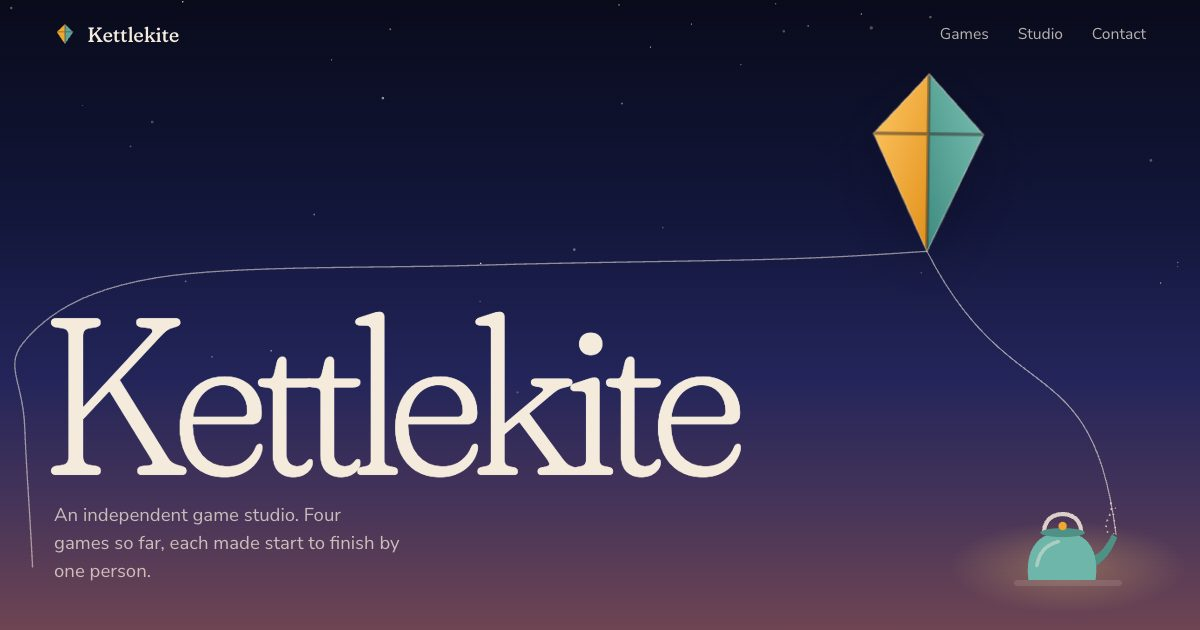
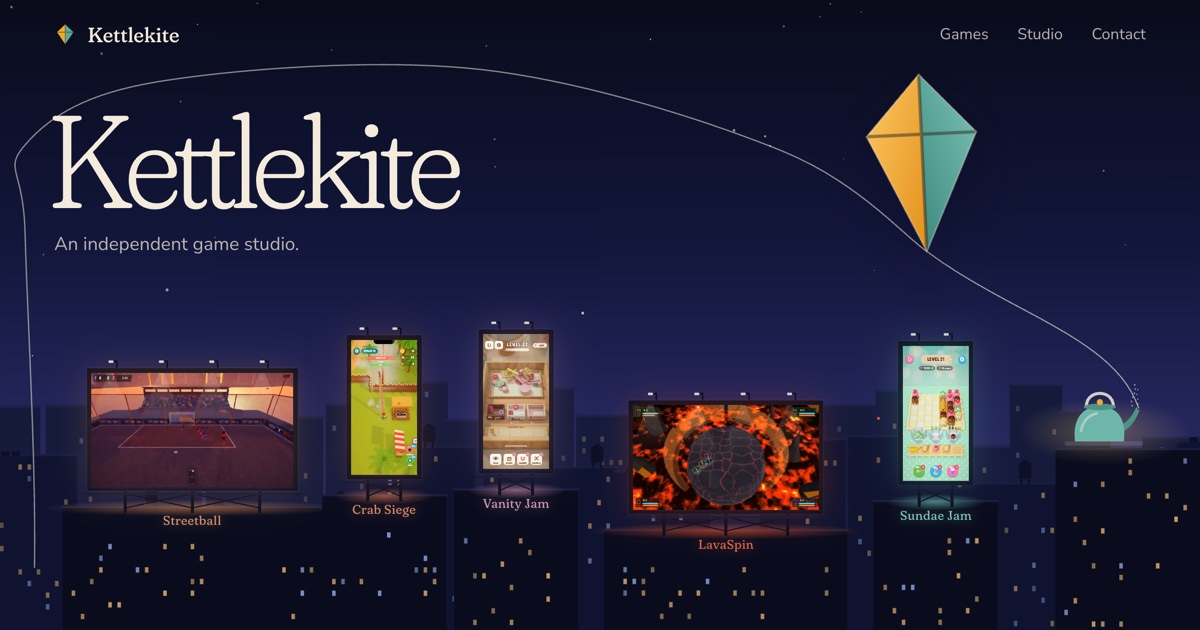
Home city: every billboard big enough to see its game and named on its building; two rows of rooftops on a phone
- The phone games' boards were 72 px wide on a 1440 screen and 39 on a phone, five boards
  shoulder to shoulder with Streetball cut at the edge and the tail running over it. Wide
  screens keep one row with the phone boards a third larger; an upright screen stands the
  three phone games on a back row and the two films on a nearer one (boards 74 and 164 px
  wide at 390), inside the gutters, none overlapping. The city is 58 % of an upright sky.
- Board sizes follow the city's height as well as its width, so a short or very wide
  window never lifts them into the name.
- Each game's name is lit on the building under its board, in the game's colour, on a band
  of wall kept dark for it; the screens spill a little of their light into the night, and a
  board brightens under the pointer (it already linked to its chapter).
- Stars twinkle a little less. Under 350 px the bar keeps the kite mark and the links, and
  the line wraps beside the kite instead of under it. The studio link gets a full target.
- og.jpg is the city with its five boards, not the old four-game sky.

diff --git a/assets/city.js b/assets/city.js
@@ -22,7 +22,6 @@
     let seed = 23;
     const r = () => ((seed = (seed * 1664525 + 1013904223) >>> 0) / 4294967296);
     const u = Math.max(0.55, Math.min(1.25, W / 1440));
-    const narrow = W < 700;
     const defs = el("defs", {}, back);
     const fdefs = el("defs", {}, front);
     let gid = 0;
@@ -60,7 +59,7 @@
         el("circle", { cx: ax + 0.65 * u, cy: top - ah, r: 1.7 * u, fill: "#ff5a4a", class: "beacon", style: `animation-delay:${(-r() * 3).toFixed(2)}s` }, g);
       }
     }
-    function block(x, w, top, layer, bare = false) {
+    function block(x, w, top, layer, bare = false, clear = 0) {
       const g = el("g", {}, back);
       el("rect", { x, y: top, width: w, height: H - top + 2, fill: tone[layer] }, g);
       el("rect", { x: x - 1.5 * u, y: top - 2.5 * u, width: w + 3 * u, height: 2.5 * u, fill: layer === "far" ? "#1b2148" : "#181d3e" }, g);
@@ -69,7 +68,7 @@
       const op = { far: 0.32, mid: 0.55, near: 0.85 }[layer];
       const cols = Math.max(1, Math.floor((w - 8 * u) / cw));
       const x0 = x + (w - cols * cw) / 2 + (cw - ww) / 2;
-      for (let y = top + 10 * u; y < H - 6 * u; y += rh) {
+      for (let y = top + 10 * u + clear; y < H - 6 * u; y += rh) {
         for (let c = 0; c < cols; c++) {
           const v = r(), warm = r() > 0.25, a = 0.6 + r() * 0.4;
           if (v > lit) continue;
@@ -91,22 +90,45 @@
     el("rect", { x: 0, y: H * 0.35, width: W, height: H * 0.65, fill: linear([[0, "#2a2550", 0], [1, "#2a2550", 0.35]], defs) }, back);
     skyline("mid", 0.32, 0.72, 50, 130);
 
-    // the billboards, each on its own roof: a cabinet on steel legs and braces, a catwalk with a
-    // rail, and lamps on arms that throw soft light down the face
-    const slots = narrow
-      ? { streetball: 0.13, vanity: 0.31, lavaspin: 0.485, sundae: 0.66, crab: 0.765 }
-      : { streetball: 0.17, crab: 0.325, vanity: 0.425, lavaspin: 0.595, sundae: 0.77 };
-    // five boards and the kettle share a phone's width: a little smaller there
-    const wideW = narrow ? W * 0.26 : W * 0.2;
-    const tallW = narrow ? W * 0.1 : W * 0.05;
-    function billboard(game, roofY, w, h) {
-      const cx = W * slots[game];
-      const host = w + (narrow ? 26 : 70) * u;
-      const legs = (narrow ? 14 : 26) * u;
+    // The billboards, each on its own roof: a cabinet on steel legs and braces, a catwalk with a
+    // rail, lamps on arms that throw soft light down the face, and the game's name lit on the
+    // building below. Wide screens stand them in one row; a phone or a tablet held upright stands
+    // the three phone games on a back row and the two films on a nearer one, so each is big
+    // enough to see what is playing. Their size follows the city's height as well as its width,
+    // so a short window never pushes them up into the name.
+    const tiers = W < 1.7 * H;
+    const legs = (tiers ? 14 : 26) * u;
+    const sign = Math.max(12, Math.min(16, W * 0.0105));
+    let plan;
+    if (tiers) {
+      const tallH = Math.min(W * 0.39, H * 0.31), tallW = tallH / 2.05;
+      const wideW = Math.min(W * 0.42, H * 0.355), wideH = (wideW * 9) / 16;
+      const back = H * 0.07 + tallH + legs;
+      const near = back + sign * 2.4 + 24 * u + wideH + legs;
+      plan = [
+        ["vanity", 0.17, back, tallW, tallH],
+        ["sundae", 0.43, back + 5 * u, tallW, tallH],
+        ["crab", 0.69, back - 3 * u, tallW, tallH],
+        ["streetball", 0.27, near, wideW, wideH],
+        ["lavaspin", 0.73, near + 9 * u, wideW * 0.96, wideH * 0.96],
+      ];
+    } else {
+      const k = Math.min(W, H * 3.48) / 1440, wideW = 288 * k, tallW = 94 * k;
+      plan = [
+        ["streetball", 0.16, H * 0.58, wideW, (wideW * 9) / 16],
+        ["crab", 0.32, H * 0.54, tallW, tallW * 2.05],
+        ["vanity", 0.43, H * 0.52, tallW, tallW * 2.05],
+        ["lavaspin", 0.605, H * 0.66, wideW * 0.92, (wideW * 0.92 * 9) / 16],
+        ["sundae", 0.78, H * 0.56, tallW, tallW * 2.05],
+      ];
+    }
+    function billboard(game, at, roofY, w, h) {
+      const cx = W * at;
+      const host = w + (tiers ? 26 : 70) * u;
       const sy = roofY - legs - h;
-      block(cx - host / 2, host, roofY, "near", true);
+      block(cx - host / 2, host, roofY, "near", true, sign * 2.2);
       el("ellipse", { cx, cy: roofY, rx: w * 0.75, ry: 10 * u, fill: radial(hue[game], 0.5) }, back);
-      el("rect", { x: cx - w / 2 - 6 * u, y: sy - 6 * u, width: w + 12 * u, height: h + 12 * u, rx: 2 * u, fill: "#0b0d1f" }, back);
+      el("rect", { x: cx - w / 2 - 6 * u, y: sy - 6 * u, width: w + 12 * u, height: h + 12 * u, rx: 2 * u, fill: "#0b0d1f", stroke: "#f4ebdd", "stroke-opacity": 0.07 }, back);
       const n = w > 120 * u ? 3 : 2;
       const lx = (i) => cx - w / 2 + (w * (i + 0.5)) / n;
       for (let i = 0; i < n; i++) el("rect", { x: lx(i) - 1.8 * u, y: sy + h + 6 * u, width: 3.6 * u, height: legs, fill: "#0b0d1f" }, back);
@@ -116,11 +138,15 @@
       }
       el("rect", { x: cx - w / 2 - 10 * u, y: sy + h + 8 * u, width: w + 20 * u, height: 2.4 * u, fill: "#121634" }, back);
       el("path", { d: `M${cx - w / 2 - 10 * u} ${sy + h + u} H${cx + w / 2 + 10 * u}`, stroke: "#121634", "stroke-width": u }, back);
-      Object.assign(boards[game].style, { left: `${cx - w / 2}px`, top: `${sy}px`, width: `${w}px`, height: `${h}px` });
-      const canvas = boards[game].querySelector("canvas");
+      const board = boards[game];
+      Object.assign(board.style, { left: `${cx - w / 2}px`, top: `${sy}px`, width: `${w}px`, height: `${h}px` });
+      board.style.setProperty("--hue", hue[game]);
+      board.style.setProperty("--sign", `${sign.toFixed(1)}px`);
+      board.style.setProperty("--drop", `${(legs + sign * 0.55).toFixed(1)}px`);
+      const canvas = board.querySelector("canvas");
       canvas.width = Math.round(w * devicePixelRatio);
       canvas.height = Math.round(h * devicePixelRatio);
-      paint(boards[game]);
+      paint(board);
       const lamps = w > 120 * u ? 4 : 2;
       for (let i = 0; i < lamps; i++) {
         const x = cx - w / 2 + (w * (i + 0.5)) / lamps;
@@ -131,11 +157,7 @@
         el("path", { d: `M${cx2 - 3 * u} ${sy} L${cx2 + 3 * u} ${sy} L${cx2 + spread} ${sy + h * 0.5} L${cx2 - spread} ${sy + h * 0.5} Z`, fill: linear([[0, "#fff6e0", 0.16], [1, "#fff6e0", 0]], fdefs) }, front);
       }
     }
-    billboard("streetball", H * 0.58, wideW, (wideW * 9) / 16);
-    billboard("lavaspin", H * 0.66, wideW * 0.92, (wideW * 0.92 * 9) / 16);
-    billboard("vanity", H * 0.52, tallW, tallW * 2.05);
-    billboard("sundae", H * 0.56, tallW, tallW * 2.05);
-    billboard("crab", H * 0.54, tallW, tallW * 2.05);
+    for (const [game, at, roofY, w, h] of plan) billboard(game, at, roofY, w, h);
     // the kettle's roof at the right edge
     block(W * 0.88, W * 0.14, H * 0.38, "near", true);
   }

diff --git a/assets/home.css b/assets/home.css
@@ -12,7 +12,7 @@
 .stars { position: absolute; inset: 0 0 42% 0; width: 100%; height: 58%; }
 .stars circle { fill: var(--ivory); }
 .stars .tw { animation: twinkle 4.5s ease-in-out infinite; }
-@keyframes twinkle { 0%, 100% { opacity: 0.25; } 50% { opacity: 0.95; } }
+@keyframes twinkle { 0%, 100% { opacity: 0.35; } 50% { opacity: 0.85; } }
 
 /* now and then a star falls: a short streak whose tail grows behind its head, then fades */
 .meteors { position: absolute; inset: 0 0 35% 0; overflow: hidden; pointer-events: none; }
@@ -51,10 +51,28 @@
 .city { position: absolute; left: 0; right: 0; bottom: 0; height: var(--city); z-index: 1; }
 .city svg { position: absolute; inset: 0; width: 100%; height: 100%; overflow: visible; }
 .city .front { pointer-events: none; }
-.board { position: absolute; display: block; background: #0b0d1f center / cover no-repeat; }
+/* each screen spills a little of its game's light into the night */
+.board {
+  position: absolute; display: block; background: #0b0d1f center / cover no-repeat; text-decoration: none;
+  box-shadow: 0 0 34px 4px color-mix(in srgb, var(--hue, #f4ebdd) 20%, transparent);
+  transition: filter 0.25s ease;
+}
 .board canvas { display: block; width: 100%; height: 100%; }
 /* the videos play unseen; city.js draws their frames into the canvas (see there why) */
 .board video { position: absolute; inset: 0; width: 100%; height: 100%; visibility: hidden; }
+/* the game's name, lit on the building under its billboard (city.js keeps that band of wall dark) */
+.board .sign {
+  position: absolute; left: 50%; top: calc(100% + var(--drop, 30px)); transform: translateX(-50%);
+  font: 400 var(--sign, 15px)/1 var(--display); font-variation-settings: "opsz" 24; letter-spacing: 0.01em; white-space: nowrap;
+  color: color-mix(in srgb, var(--hue, #f4ebdd) 82%, #fff8ee);
+  text-shadow: 0 0 10px color-mix(in srgb, var(--hue, #f4ebdd) 45%, transparent);
+  opacity: 0.86; transition: opacity 0.25s ease;
+}
+@media (hover: hover) and (pointer: fine) {
+  .board:hover { filter: brightness(1.1); }
+  .board:hover .sign { opacity: 1; }
+}
+.board:active { filter: brightness(0.94); }
 .beacon { animation: beacon 2.8s ease-in-out infinite; }
 @keyframes beacon { 0%, 100% { opacity: 0.15; } 50% { opacity: 1; } }
 
@@ -169,7 +187,7 @@ html:has(body.home) { scroll-snap-type: y mandatory; }
 .studio { position: relative; display: grid; grid-template-columns: minmax(0, 1fr) minmax(18rem, 33rem); gap: 2rem 5rem; align-items: start; padding-top: clamp(7rem, 17vw, 15rem); padding-bottom: clamp(4rem, 9vw, 8rem); }
 .studio-title { font-size: clamp(2.8rem, 6.4vw, 6.6rem); font-weight: 290; letter-spacing: -0.04em; line-height: 0.95; }
 .studio-body p { color: var(--ivory-2); font-size: clamp(1.08rem, 1.3vw, 1.2rem); line-height: 1.65; }
-.studio-body a { color: var(--ivory); }
+.studio-body a { display: inline-block; padding-block: 0.65rem; margin-block: -0.65rem; color: var(--ivory); }
 .contact { padding-bottom: clamp(5rem, 10vw, 9rem); }
 .contact-title { font-size: clamp(1.6rem, 2.6vw, 2.2rem); font-weight: 340; margin-bottom: 1rem; color: var(--ivory-2); }
 .mail {
@@ -192,15 +210,22 @@ html:has(body.home) { scroll-snap-type: y mandatory; }
 /* ——— Narrow screens ——— */
 /* phone taps: the bar's and the footer's links keep their look and get a 44 px target */
 @media (max-width: 760px) {
-  .nav a, .studio-body a { display: inline-block; }
+  .nav a { display: inline-block; }
   .nav a { min-width: 44px; text-align: center; }
-  .bar .brand, .nav a, .studio-body a { padding-block: 0.65rem; margin-block: -0.65rem; }
+  .bar .brand, .nav a { padding-block: 0.65rem; margin-block: -0.65rem; }
   .foot ul { gap: 0 1.5rem; }
   .foot a { display: inline-block; padding-block: 0.7rem; }
 }
+/* the smallest phones: the bar keeps the kite mark and the links (the name stands just below it,
+   in the sky), and the line wraps beside the kite instead of running under it */
+.brand .kite { flex-shrink: 0; }
+@media (max-width: 350px) {
+  .bar .brand { font-size: 0; gap: 0; padding: 11px; margin: -11px; }
+  .lede { max-width: 15ch; }
+}
 @media (max-width: 860px) {
   .flyer { left: 62%; top: 12%; }
-  .sky { --city: 40%; }
+  .sky { --city: 58%; } /* two rows of rooftops on an upright screen */
   .kettle { right: 2%; width: 58px; }
   .games a { grid-template-columns: 1fr; gap: 0.3rem; }
   .g-where { text-align: left; }

diff --git a/index.html b/index.html
@@ -65,14 +65,14 @@
         <rect x="20" y="150" width="180" height="10" rx="5" fill="#f4ebdd" fill-opacity=".12"/>
       </svg>
     </div>
-    <!-- A night city under the sky; the games play on billboards on its rooftops. Laid out by city.js. -->
+    <!-- A night city under the sky; the games play on billboards on its rooftops, each named on its building. Laid out by city.js. -->
     <div class="city" aria-hidden="true">
       <svg class="back"></svg>
-      <a class="board" data-game="streetball" href="#streetball" tabindex="-1" style="background-image:url(/assets/media/streetball/peek.jpg)"><canvas></canvas><video src="/assets/media/streetball/board.mp4" muted loop playsinline preload="auto"></video></a>
-      <a class="board" data-game="vanity" href="#vanity-jam" tabindex="-1" style="background-image:url(/assets/media/vanity-jam/shot.jpg)"><canvas></canvas><video src="/assets/media/vanity-jam/board.mp4" muted loop playsinline preload="auto"></video></a>
-      <a class="board" data-game="lavaspin" href="#lavaspin" tabindex="-1" style="background-image:url(/assets/media/lavaspin/peek.jpg)"><canvas></canvas><video src="/assets/media/lavaspin/board.mp4" muted loop playsinline preload="auto"></video></a>
-      <a class="board" data-game="sundae" href="#sundae-jam" tabindex="-1" style="background-image:url(/assets/media/sundae-jam/shot.jpg)"><canvas></canvas><video src="/assets/media/sundae-jam/board.mp4" muted loop playsinline preload="auto"></video></a>
-      <a class="board" data-game="crab" href="#crab-siege" tabindex="-1" style="background-image:url(/assets/media/crab-siege/shot.jpg)"><canvas></canvas><video src="/assets/media/crab-siege/board.mp4" muted loop playsinline preload="auto"></video></a>
+      <a class="board" data-game="streetball" href="#streetball" tabindex="-1" style="background-image:url(/assets/media/streetball/peek.jpg)"><canvas></canvas><video src="/assets/media/streetball/board.mp4" muted loop playsinline preload="auto"></video><span class="sign">Streetball</span></a>
+      <a class="board" data-game="vanity" href="#vanity-jam" tabindex="-1" style="background-image:url(/assets/media/vanity-jam/shot.jpg)"><canvas></canvas><video src="/assets/media/vanity-jam/board.mp4" muted loop playsinline preload="auto"></video><span class="sign">Vanity Jam</span></a>
+      <a class="board" data-game="lavaspin" href="#lavaspin" tabindex="-1" style="background-image:url(/assets/media/lavaspin/peek.jpg)"><canvas></canvas><video src="/assets/media/lavaspin/board.mp4" muted loop playsinline preload="auto"></video><span class="sign">LavaSpin</span></a>
+      <a class="board" data-game="sundae" href="#sundae-jam" tabindex="-1" style="background-image:url(/assets/media/sundae-jam/shot.jpg)"><canvas></canvas><video src="/assets/media/sundae-jam/board.mp4" muted loop playsinline preload="auto"></video><span class="sign">Sundae Jam</span></a>
+      <a class="board" data-game="crab" href="#crab-siege" tabindex="-1" style="background-image:url(/assets/media/crab-siege/shot.jpg)"><canvas></canvas><video src="/assets/media/crab-siege/board.mp4" muted loop playsinline preload="auto"></video><span class="sign">Crab Siege</span></a>
       <svg class="front"></svg>
     </div>
     <div class="sky-copy wrap">

diff --git a/README.md b/README.md
@@ -18,7 +18,7 @@ Each game has its own site and repo on its own subdomain:
 1. Copy `kettlekite-vanityjam` to `kettlekite-<slug>`, set `CNAME` to `<slug>.kettlekite.com`, change `assets/theme.css` (colour tokens only), the icon, the screenshot and every page's text. Write `privacy.html` from the game's real data practices.
 2. `gh repo create iammertg/kettlekite-<slug> --public --source . --push`, then enable Pages on `main` with the custom domain.
 3. Namecheap → Advanced DNS → CNAME `<slug>` → `iammertg.github.io.`
-4. Add the game here, from its first TestFlight on (coming soon): a rooftop billboard (`.board` in `index.html`; hue, slot and a `billboard()` call in `assets/city.js`), a row in the games list, and a showcase chapter with floating model renders and the phone film (stage colours in `assets/home.css`). The "Visit" button and the footer privacy link wait until `<slug>.kettlekite.com` answers (Crab Siege, 2026-10-29: listed before its own site went up).
+4. Add the game here, from its first TestFlight on (coming soon): a rooftop billboard (`.board` in `index.html` with its lit `.sign`; its hue and a row in both layouts of `plan` in `assets/city.js`; a light `board.mp4` cut, 640 px wide for a film and 288 for a phone game: `ffmpeg -i demo.mp4 -an -vf scale=288:-2 -c:v libx264 -preset slower -crf 31 -movflags +faststart board.mp4`), a row in the games list, and a showcase chapter with floating model renders and the phone film (stage colours in `assets/home.css`). The "Visit" button and the footer privacy link wait until `<slug>.kettlekite.com` answers (Crab Siege, 2026-10-29: listed before its own site went up).
 5. App Store Connect: Privacy Policy URL `https://<slug>.kettlekite.com/privacy`, Support URL `https://<slug>.kettlekite.com/support`, Marketing URL `https://<slug>.kettlekite.com`.
 
 No third-party requests anywhere: no web fonts from other hosts, no analytics, no trackers. The privacy pages promise it.
